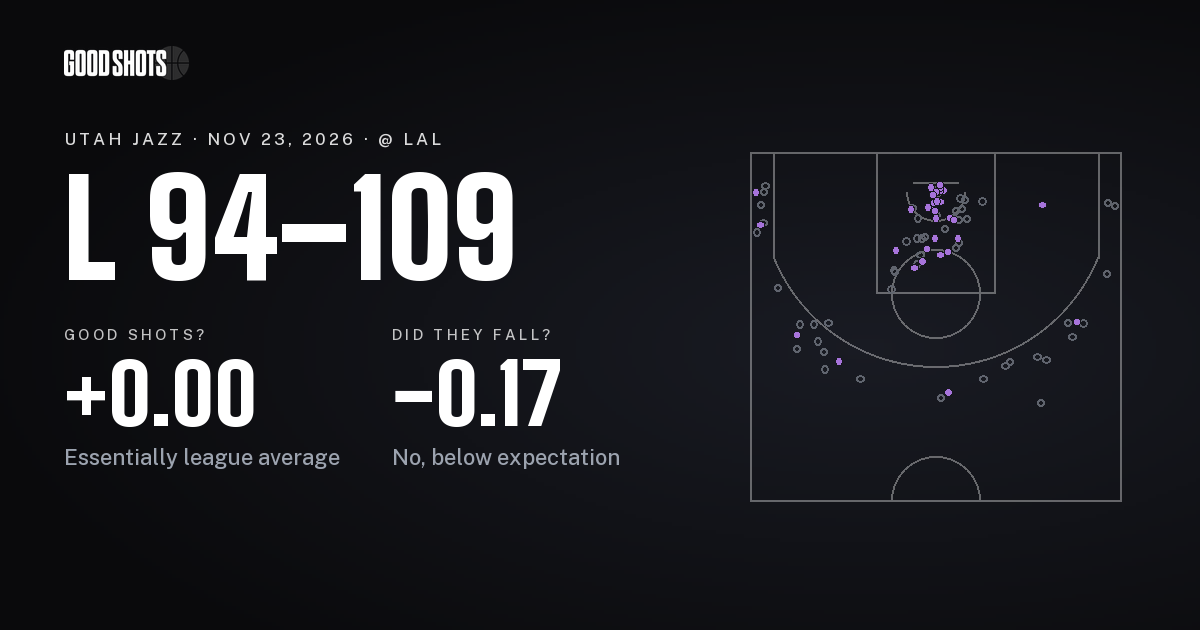
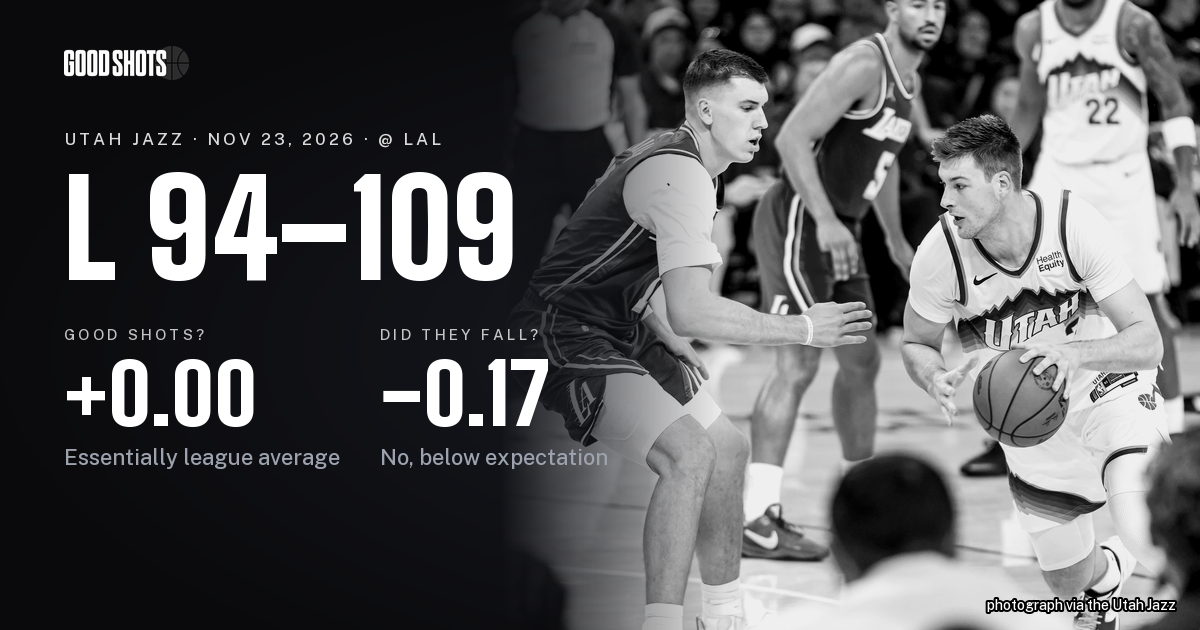
Give the 11-23 Lakers report card its game photograph
Kyle Filipowski dribbling against a crouched Lakers defender, the header
of the Jazz's 11-23 recap (DSC04181), credited "photograph via the Utah
Jazz" from an empty record. The game is verified by the uniforms: of the
three Lakers meetings, 10-25 had the Lakers in white and 11-18 had them
in gold against the Jazz in purple, while this frame has the Lakers in
purple against the Jazz in white; no Lakers preseason game, and the
HealthEquity patch rules out 2025-26. His number is mostly hidden by his
arm, so he is named by his face against his headshot and the roster's 2
(23:35 on the floor, 21 points). The counter agrees, following 11-20's
DSC02080 on the same body. The finder's other frame names Getty and is
not a candidate. Focal points checked against the 375px poster (75%
keeps him whole, the Lakers' 5 and Peterson's 22 in frame) and the
1440px wide panel (55% keeps the defender's face clear of the left
fade); the share card redrawn with the photograph.

diff --git a/src/teams/gamePhotos.ts b/src/teams/gamePhotos.ts
@@ -158,6 +158,13 @@ export const GAME_PHOTOS: Readonly<Record<string, GamePhoto>> = {
     imagePosition: '48% 30%',
     imagePositionWide: '20% 30%',
   },
+  '2026-11-23-lal': {
+    imagePath: 'img/games/2026-11-23-lal.jpg',
+    imageAlt: 'Kyle Filipowski dribbles against a crouched Lakers defender, in the white Jazz number 2 jersey',
+    imageCredit: 'photograph via the Utah Jazz',
+    imagePosition: '75% 40%',
+    imagePositionWide: '55% 30%',
+  },
 }
 
 export function gamePhotoOf(slug: string): GamePhoto | undefined {

diff --git a/docs/image-credits.md b/docs/image-credits.md
@@ -586,3 +586,36 @@ Utah Jazz".
   same body 453 frames earlier and headed the 11-23 Lakers preview; it
   agrees on the game and was passed over for the recap's frame. No game
   clock is in frame, so no shot is matched.
+
+The photo finder listed one team frame for 11-23 after the 06:30 session
+of 2026-11-24; the night's other frame, `.../2026/11/2305957836.jpg`,
+names Getty on its record and is not a candidate. Pulled 2026-11-24 by
+`game:photo` and retained in `data/game-sources/2026-11-23-lal.jpg`; the
+record carries an empty credit and the file no embedded metadata, so it
+is credited "photograph via the Utah Jazz".
+
+- `public/img/games/2026-11-23-lal.jpg`, Kyle Filipowski (2, white)
+  dribbling at the hip against a crouched Lakers defender in purple, a
+  second Lakers player (5) in purple behind them, Darryn Peterson (22,
+  white) out of focus at the upper right, an official at the upper left,
+  and out-of-focus courtside heads across the bottom: the header of the
+  Jazz's 11-23 recap, posted 11-24 05:54 UTC,
+  `cdn.nba.com/teams/uploads/sites/1610612762/2026/11/DSC04181.jpg`
+  (5407x3609 on the record; the CDN serves 5000x3337). **The game is
+  verified by the uniforms and the jersey patch**: the Jazz have met the
+  Lakers three times in 2026-27, at the Delta Center on 10-25, where the
+  Lakers wore white (the Jackson photograph, above), at the Lakers on
+  11-18, where they wore gold and the Jazz purple (the George photograph,
+  above), and at the Lakers on 11-23, and the Jazz played no Lakers
+  preseason game (Denver home and away, San Antonio at home, Phoenix
+  away). The Lakers in purple against the Jazz in white rule out both
+  earlier meetings; the gold apron and the fans in Lakers gold behind the
+  play agree on the venue. Filipowski was a Jazz player in 2025-26 too,
+  and the patch rules out that season's Lakers games: his jersey carries
+  the HealthEquity patch of the 2026-27 frames. His number is mostly
+  hidden behind his right arm, with only the top curve of the 2 showing
+  beside the wordmark; he is named by his face against his NBA headshot
+  (`public/img/kyle-filipowski-headshot.png`) and the roster's 2, and the
+  box score has him on the floor for 23:35. The counter agrees, following
+  the 11-20 photograph's `DSC02080` on the same body (the 11-22 frames
+  came from another). No game clock is in frame, so no shot is matched.
